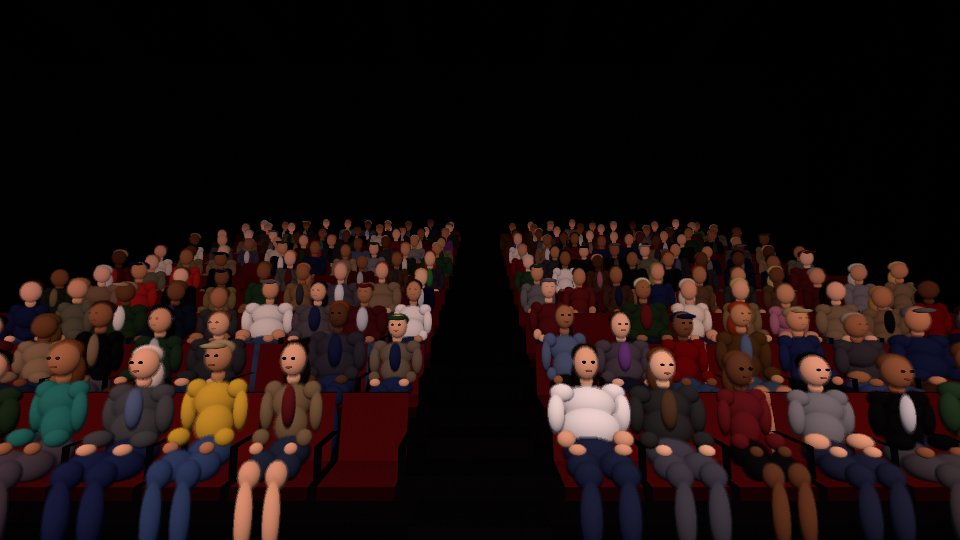
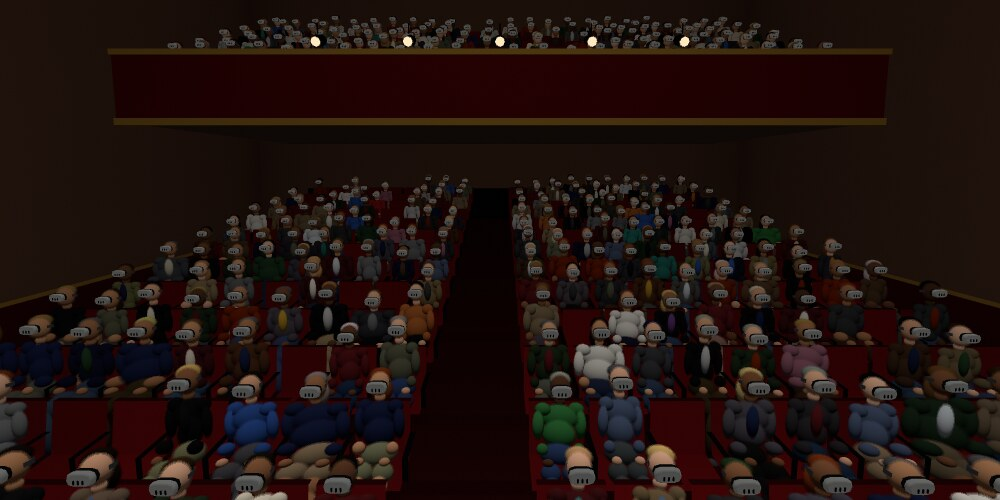
CueVR guide: tables, balls and cues as part of the opening montage (Mark: not strips, not links); the crowd as PEOPLE and SILHOUETTES as the menu names them, photographed with CROWD HEADSETS on, and the CROWD HEADSETS setting

diff --git a/docs/cuevr-guide.html b/docs/cuevr-guide.html
@@ -115,6 +115,7 @@
   .showcase figure.big{grid-row:span 2}
   .showcase img{width:100%;height:100%;object-fit:cover;display:block;border-radius:10px;transition:transform .4s}
   .showcase figure:hover img{transform:scale(1.04)}
+  .showcase figure.wide{grid-column:span 2}
   .showcase figcaption{position:absolute;left:0;right:0;bottom:0;margin:0;padding:22px 12px 9px;color:#fff;font-size:.88rem;
     background:linear-gradient(transparent,rgba(0,0,0,.78));max-width:none}
   .showcase figure.big figcaption{font-size:1.05rem;font-weight:600}
@@ -306,6 +307,9 @@
     <figure><img src="img/cuevr/trophy_held.png" alt="A trophy held up over the table"><figcaption>Win a title, lift the trophy</figcaption></figure>
     <figure><img src="img/cuevr/club_room.jpg" alt="The snooker club"><figcaption>Down the club, with other players</figcaption></figure>
     <figure><img src="img/cuevr/venue_poolhall.jpg" alt="A pool hall"><figcaption>A pool hall</figcaption></figure>
+    <figure><img src="img/cuevr/tile-tables.jpg" alt="An L-shaped table"><figcaption>Seven table bodies, and beds of every shape</figcaption></figure>
+    <figure><img src="img/cuevr/tile-balls.jpg" alt="Four ball sets"><figcaption>27 ball sets</figcaption></figure>
+    <figure class="wide"><img src="img/cuevr/tile-cues.jpg" alt="Cue butts"><figcaption>30 cues, and a workshop to build more</figcaption></figure>
   </div>
 
 
@@ -4377,13 +4381,15 @@
   people who would be there &mdash; friends, diners or drinkers &mdash; if CROWD is set to
   ALL GAMES.</p>
   <div class="grid g2">
-    <figure><img src="img/cuevr/crowd_avatars.jpg" alt="The crowd as avatars"><figcaption><span class="cap-t">AVATARS</span> — people in their own clothes, of every build, lit by the room. This is how it starts.</figcaption></figure>
-    <figure><img src="img/cuevr/crowd_splats.jpg" alt="The crowd as swaying splats"><figcaption><span class="cap-t">SWAYING SPLATS</span> — soft dark shapes in the seats, moving a little. Brightened here so you can see them.</figcaption></figure>
+    <figure><img src="img/cuevr/crowd_avatars.jpg" alt="The crowd as people, in headsets"><figcaption><span class="cap-t">PEOPLE</span> — people in their own clothes, of every build, lit by the room. This is how it starts. Here with CROWD HEADSETS on.</figcaption></figure>
+    <figure><img src="img/cuevr/crowd_splats.jpg" alt="The crowd as silhouettes, in headsets"><figcaption><span class="cap-t">SILHOUETTES</span> — dark shapes in the seats, moving a little. Brightened here so you can see them, and with CROWD HEADSETS on.</figcaption></figure>
   </div>
   <table>
     <tr><th>Setting</th><th>Where</th><th>What it does</th></tr>
     <tr><td><b>VENUE CROWD</b></td><td>Environment &rarr; Surroundings</td><td>How the people
-      look: <b>Avatars</b> or <b>Swaying splats</b>.</td></tr>
+      look: <b>People</b>, <b>Silhouettes</b>, or <b>Off</b> for empty seats.</td></tr>
+    <tr><td><b>CROWD HEADSETS</b></td><td>Environment &rarr; Surroundings</td><td><b>On</b>
+      puts a Quest 3 on every face in the crowd, either look.</td></tr>
     <tr><td><b>ADVERTISING BOARDS</b></td><td>Environment &rarr; Surroundings</td><td>The
       sponsors' names on the venues' boards, or plain boards.</td></tr>
     <tr><td><b>CROWD</b></td><td>Settings &rarr; Sound</td><td><b>OFF</b>; <b>EVENTS</b> (the
